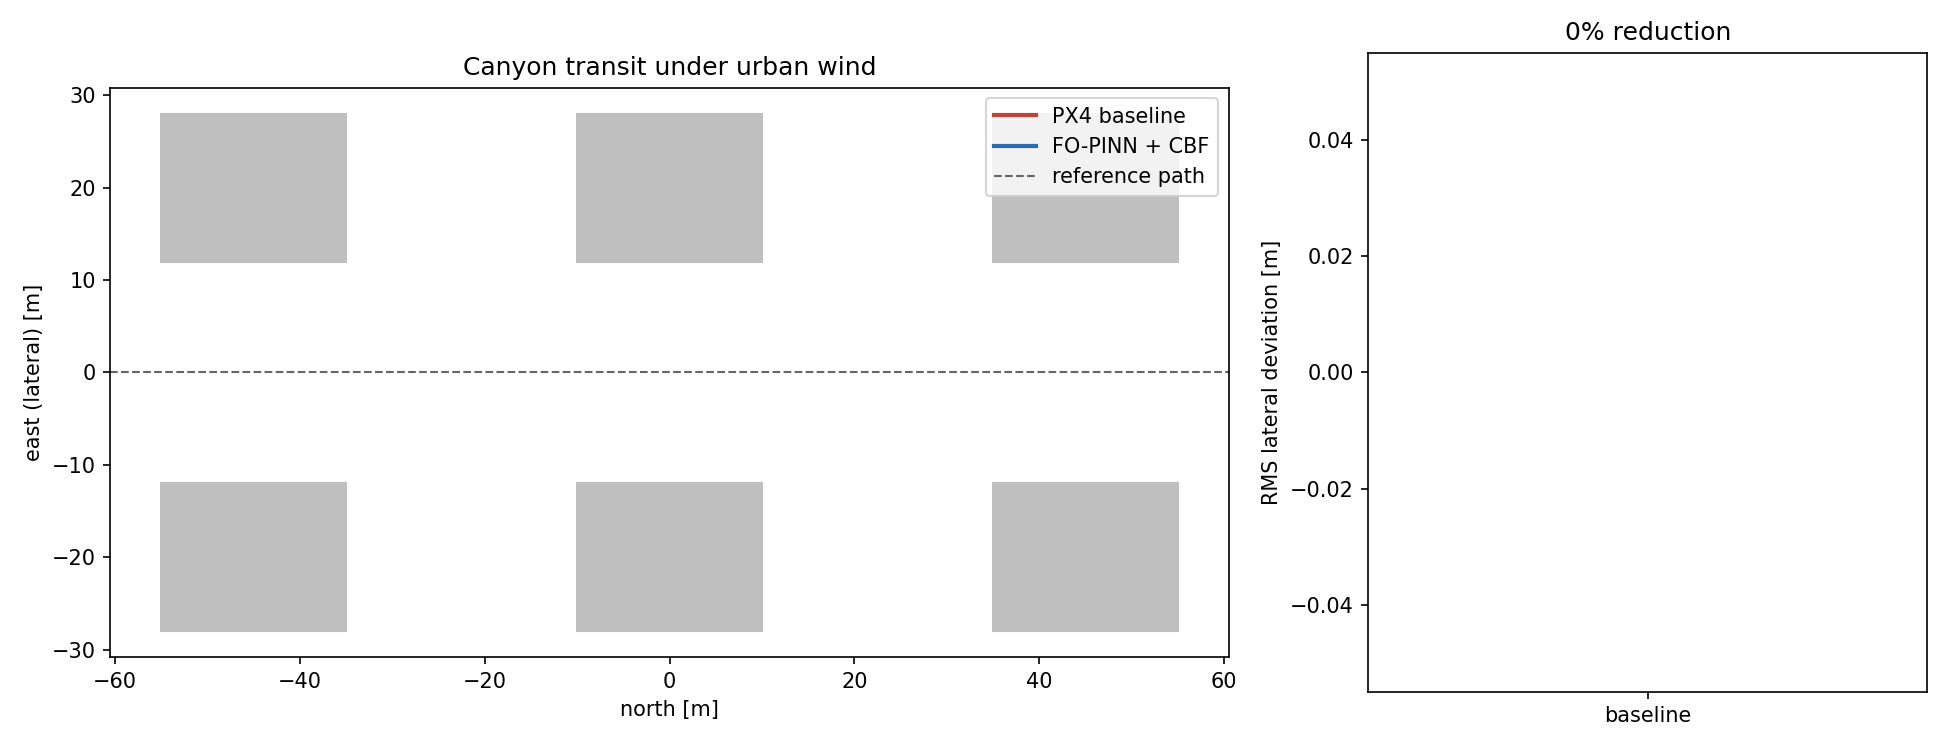
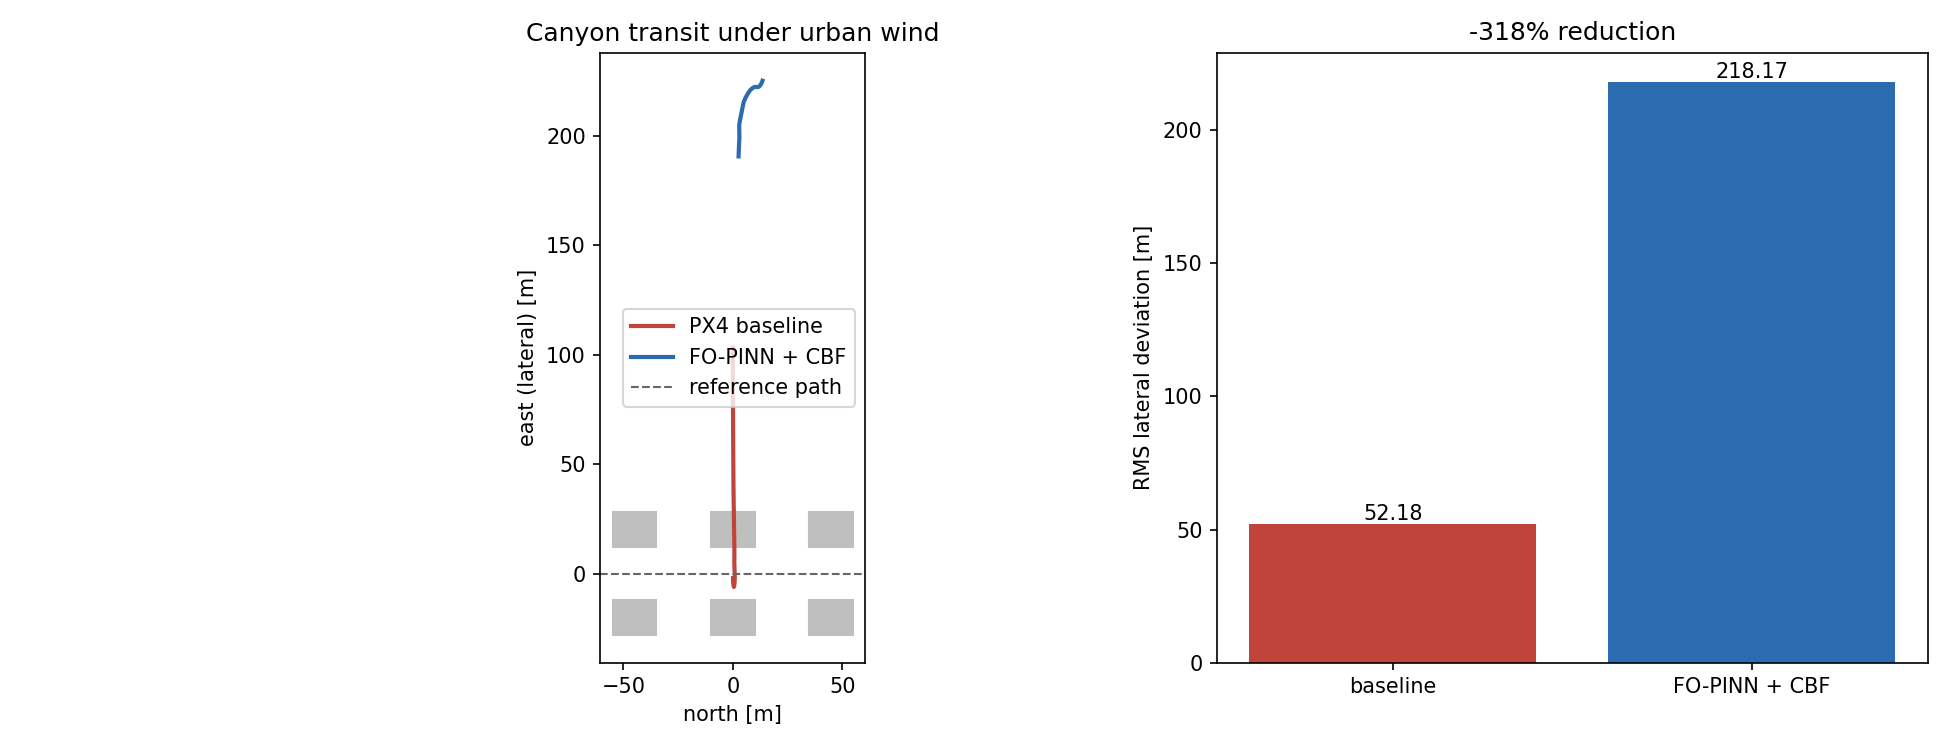
fix: subscribe to versioned /fmu/out topic names PX4 actually publishes
The unversioned /fmu/out/vehicle_local_position and /fmu/out/vehicle_status
topics don't exist on this PX4 build -- only vehicle_local_position_v1 and
vehicle_status_v4 are actually published. A ROS2 subscription to a topic
that doesn't exist yet doesn't error, it just never fires, so every field
fed by it stayed at its zero-initialized default for the whole flight.

This silently broke position telemetry in controller_node, trial_logger,
wind_field_node, and fo_pinn_node simultaneously -- the vehicle still flew
fine (nothing feeds position back into the mission), but every logged
trajectory was flat at (0,0,0), plot_results computed RMS lateral
deviation from all-zero position (reported as nan), and the PINN's
physics residual never saw real acceleration.

Verified live: /fmu/out/vehicle_local_position_v1 has real, changing
data; a fresh trial's CSV shows a genuine climbing/moving trajectory
(1787/1787 non-zero rows) instead of 8815/8815 zero rows; plot_results
now reports real numbers instead of nan. Regenerated figures/*.png from
the corrected data.

px4_msgs uses the same VehicleLocalPosition/VehicleStatus message class
regardless of the topic version suffix, so only the topic string changes.

diff --git a/src/aerocanyon/aerocanyon/controller_node.py b/src/aerocanyon/aerocanyon/controller_node.py
@@ -59,10 +59,10 @@ class ControllerNode(Node):
             Vector3Stamped, C.TOPIC_SETPOINT_DESIRED, 10)
 
         self.create_subscription(
-            VehicleLocalPosition, '/fmu/out/vehicle_local_position',
+            VehicleLocalPosition, '/fmu/out/vehicle_local_position_v1',
             self._on_position, qos_profile_sensor_data)
         self.create_subscription(
-            VehicleStatus, '/fmu/out/vehicle_status',
+            VehicleStatus, '/fmu/out/vehicle_status_v4',
             self._on_status, qos_profile_sensor_data)
         self.create_subscription(
             Vector3Stamped, C.TOPIC_WIND_EST, self._on_wind_est, 10)

diff --git a/src/aerocanyon/aerocanyon/trial_logger.py b/src/aerocanyon/aerocanyon/trial_logger.py
@@ -51,7 +51,7 @@ class TrialLogger(Node):
         self.t0 = self.get_clock().now()
 
         self.create_subscription(
-            VehicleLocalPosition, '/fmu/out/vehicle_local_position',
+            VehicleLocalPosition, '/fmu/out/vehicle_local_position_v1',
             self._on_position, qos_profile_sensor_data)
         self.create_subscription(
             VehicleAttitude, '/fmu/out/vehicle_attitude',

diff --git a/src/aerocanyon/aerocanyon/fo_pinn_node.py b/src/aerocanyon/aerocanyon/fo_pinn_node.py
@@ -50,7 +50,7 @@ class FoPinnNode(Node):
         self.accel = np.zeros(3)
 
         self.create_subscription(
-            VehicleLocalPosition, '/fmu/out/vehicle_local_position',
+            VehicleLocalPosition, '/fmu/out/vehicle_local_position_v1',
             self._on_position, qos_profile_sensor_data)
         self.create_subscription(
             VehicleAttitude, '/fmu/out/vehicle_attitude',

diff --git a/src/aerocanyon/aerocanyon/wind_field_node.py b/src/aerocanyon/aerocanyon/wind_field_node.py
@@ -51,7 +51,7 @@ class WindFieldNode(Node):
         self.airspeed = 1.0
 
         self.create_subscription(
-            VehicleLocalPosition, '/fmu/out/vehicle_local_position',
+            VehicleLocalPosition, '/fmu/out/vehicle_local_position_v1',
             self._on_position, qos_profile_sensor_data)
 
         self.truth_pub = self.create_publisher(

diff --git a/README.md b/README.md
@@ -180,11 +180,12 @@ it's small or negative, confirm `cbf_active` is non-zero and that the PINN
 estimate correlates with wind truth before concluding the pipeline needs
 retuning.
 
-### Known-good arming configuration
+### Known-good arming and telemetry configuration
 
-Four mistakes will silently prevent the vehicle from arming or moving
-(motors spin but the vehicle never lifts, arming is outright denied, or
-the vehicle just sits there armed and idle):
+Five mistakes will silently prevent the vehicle from arming, moving, or
+producing usable telemetry (motors spin but the vehicle never lifts,
+arming is outright denied, the vehicle sits there armed and idle, or it
+flies just fine while every logged position stays at zero):
 
 1. **Missing `<spherical_coordinates>` in the world.** Without it, Gazebo's
    simulated magnetometer/GPS have no reference location, and PX4's EKF
@@ -230,6 +231,21 @@ the vehicle just sits there armed and idle):
    dead, so PX4 never even received the arm/offboard request.
    `test_controller_node.py` now drives the real tick loop specifically to
    catch this class of bug.
+5. **Unversioned `/fmu/out/vehicle_local_position` and `/fmu/out/vehicle_status`
+   topic names don't exist on this PX4 build** — only the versioned
+   `vehicle_local_position_v1` and `vehicle_status_v4` are actually
+   published (`ros2 topic list | grep /fmu/out` while the sim is running
+   to check on any other PX4 checkout). Subscribing to the unversioned
+   name doesn't error — `ros2 topic echo` just warns "does not appear to
+   be published yet" and the callback is never invoked, so the field stays
+   at its zero-initialized default forever. This silently zeroed out
+   position in `controller_node`, `trial_logger`, `wind_field_node`, and
+   `fo_pinn_node` at once: the mission still flew (it doesn't feed position
+   back into anything), but every logged trajectory was flat, `plot_results`
+   computed RMS deviation from all-zero position, and the PINN's physics
+   residual saw no real acceleration signal. Same fix everywhere: point
+   the subscription at the versioned topic name; `px4_msgs` uses the same
+   message class for both, so nothing else changes.
 
 If you edit airframe parameters (item 2) and arming still fails the same
 way, the parameter store may have a stale saved value from a previous run
